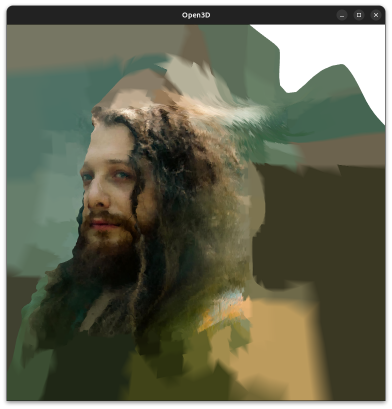
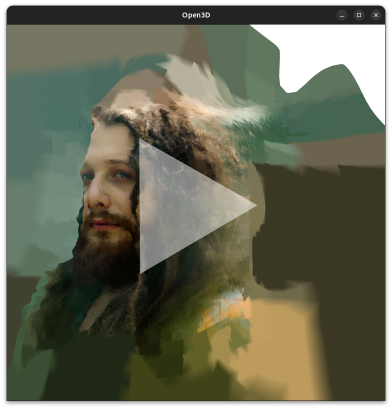
update docs

Changed region(s): [[0.3367, 0.3227, 0.6735, 0.6748]]

diff --git a/docs/source/conf.py b/docs/source/conf.py
@@ -6,8 +6,8 @@ project = 'voxelmap'
 copyright = '2023, Andrew Garcia'
 author = 'Andrew Garcia, Ph.D.'
 
-release = '4.2'
-version = '4.2.0'
+release = '4.3'
+version = '4.3.0'
 
 # -- General configuration
 

diff --git a/docs/source/usage.rst b/docs/source/usage.rst
@@ -49,124 +49,101 @@ The dictionary's structure and call method are shown below:
 
 .. _voxeldraw_array:
 
-Draw voxels from an integer array
+Draw voxels from integer arrays
 -------------------------------------
 
-The voxel color and transparencies may be added or modified to the 
-``hashblocks`` map with the ``hashblocks_add`` method.
+We present the creation of two models using arrays A and B, with the first code block dedicated to the generation of the first model (array A) containing thorough comments for better understanding of the voxelmap functions.
 
 .. code-block:: python
 
-   import voxelmap as vxm
-   import numpy as np
+  '''Array A'''
 
-   #make a 3x3x3 integer array with random values between 0 and 9
-   array = np.random.randint(0, 10, (3, 3, 3))
-   print(array)
+  #make a 10x10x10 integer array with values between 0 and 3 with sampling probabilities "p"
+  freqs = [300,20,40,20]    
+  A = np.random.choice([0,1,2,3],p=freqs/np.sum(freqs),size=(10, 10, 10))
 
-   #incorporate array to Model structure
-   model = vxm.Model(array)
+  #incorporate array to Model structure
+  model = vxm.Model(A)
 
-   #add voxel colors and alpha-transparency for integer values 0 - 9 (needed for `custom` coloring)
-   colors = ['#ffffff', 'black', '#ffffff', 'k',
-            'yellow', '#000000', 'white', 'k', '#c745f8']
-   for i in range(9):
-      model.hashblocks_add(i+1, colors[i])
+  #add voxel colors and alpha-transparency for integer values 0 - 9 (needed for `custom` coloring)
+  colors = ['#ff000ff', 'yellow', 'lime']
 
-   #draw array as a voxel model with `custom` coloring scheme
-   model.draw('custom', background_color='#ffffff')
-   
->>> [Out]
-[[[3 8 5]
-  [0 2 6]
-  [2 2 7]]
- [[8 3 6]
-  [7 2 0]
-  [2 2 1]]
- [[9 2 4]
-  [8 5 7]
-  [8 9 8]]]
+  alpha_yellow=0.4    # define alpha transparency for yellow colored voxels
+
+  #assign colors and alpha to integers
+  k=1
+  for i in colors:
+      model.hashblocks[k] = [i,1] if i != 'yellow' else [i,alpha_yellow]
+      k+=1
+
+  model.draw(coloring='custom',len_voxel=0.9, background_color='#ffffff')
+
+  '''Array B'''
+
+  B = np.random.randint(1,30,(7,7,7))
+  vxm.Model(B).draw(coloring='cmap: cool, alpha:1.0',geometry='particles',len_voxel=1,background_color='w')
 
 
 .. image:: ../img/solid_voxels.png
-  :width: 200
+  :width: 300
   :alt: Alternative text
 
-With particles geometry and user-defined ``alpha`` transparencies
-...........................................................................
-The new version of voxelmap now has a ``geometry`` kwarg for the ``Model.draw()`` method where the voxel geometry can be chosen between `voxels` and `particles` form. Below we change it to `particles` to represent the voxels above as spherical objects. In addition, we declare different transparencies of the different voxel-item types:
-
-.. code-block:: python
-
-   alphas = [0.8,1,0.5,1,0.75,0.5,1.0,0.8,0.6]
-   for i in range(9):
-   model.hashblocks_add(i+1,colors[i],alphas[i])
-   model.draw('custom', geometry='particles', background_color='#ffffff')
-
-.. image:: ../img/alpha_voxels.png
-  :width: 200
+.. image:: ../img/solid_voxels_B.png
+  :width: 300
   :alt: Alternative text
+
+
+It's worth noting the versatility of voxelmap, allowing the creation of 3D models using just one line of code, as demonstrated with the generation of array B.
+
 
 
 Draw voxels from coordinate arrays 
 -------------------------------------
 
-**Voxelmap** may also draw a voxel model from an array which defines the coordinates for each of the voxels to be drawn in x y and z space. 
+Voxelmap has the capability to create a voxel model using an array that defines the coordinates of each voxel in x, y, and z space. The variable "data.xyz" takes a third-order array, where the rows represent the number of voxels and the columns contain the 3 coordinates for each axis.
 
-The internal variable ``data.xyz`` will thus take a third-order array where the rows are the number of voxels and the columns are the 3 coordinates for the x,y,z axis. Another internal input, ``data.rgb``,
-can be used to define the colors for each of the voxels in the ``data.xyz`` object in ``'xxxxxx'`` hex format (i.e. ``'ffffff'`` for white).
+Additionally, the "data.rgb" input can be used to set the color of each voxel in the "data.xyz" object using the hex format "xxxxxx" (for example, "ffffff" for white).
 
-The algorithm will also work for negative coordinates, as it is shown in the example below. 
+The algorithm works with negative coordinates as well, as demonstrated in the example below. This example showcases two cases, where the second case places the spheres farther apart by reducing the characteristic length scale of the particles (i.e., the radius) using the "len_voxel" keyword argument.
 
 .. code-block:: python
 
-   import voxelmap as vxm
-   import numpy as np
+  cubes = vxm.Model()
+  num_voxels = 30
+  cubes.XYZ = np.random.randint(-1,1,(num_voxels,3))+np.random.random((num_voxels,3))          # random x,y,z locs for 10 voxels
+  cubes.RGB = [ hex(np.random.randint(0.5e7,1.5e7))[2:] for i in range(num_voxels) ]   # define random colors for the 10 voxels
+  cubes.sparsity = 10
+                                                    # spaces out coordinates
+  cubes.load(coords=True)
+  cubes.hashblocks
 
-   cubes = vxm.Model()          
-   num_voxels = 30
-   cubes.XYZ = np.random.randint(-1,1,(num_voxels,3))+np.random.random((num_voxels,3))          # random x,y,z locs for 10 voxels
-   cubes.RGB = [ hex(np.random.randint(0.5e7,1.5e7))[2:] for i in range(num_voxels) ]   # define random colors for the 10 voxels
-   cubes.sparsity = 5
-                                                      # spaces out coordinates 
-   cubes.load(coords=True)
-   cubes.hashblocks 
+  print(cubes.hashblocks)
 
-   for i in cubes.hashblocks:
-      cubes.hashblocks[i][1] = 0.30     # update all voxel alphas (transparency) to 0.3
+  # print(cubes.XYZ)                               # print the xyz coordinate data
+  cubes.draw(coloring='custom',geometry='particles',len_voxel=1, background_color='#ffffff',window_size=[416, 416]) 
 
-   # print(cubes.XYZ)                               # print the xyz coordinate data
-   cubes.draw('custom',geometry='particles', background_color='#ffffff',window_size=[416, 416])                            # draw the model from that data
+  # increase spacing by setting the `len_voxel` characteristic side-length to a lower number. 
+  cubes.draw(coloring='custom',geometry='particles',len_voxel=0.5, background_color='#ffffff',window_size=[416, 416]) 
 
 
 
 >>> [Out]
-Color list built from file!
-Model().hashblocks =
- {1: ['#4db692', 1], 2: ['#564bfb', 1], 3: ['#5915c1', 1], 4: ['#6283df', 1], 5: ['#6e5722', 1], 6: ['#6eebc3', 1], 7: ['#70cffa', 1], 8: ['#787ea7', 1], 9: ['#813c5b', 1], 10: ['#8906d7', 1], 11: ['#8a871d', 1], 12: ['#8ba24f', 1], 13: ['#930979', 1], 14: ['#932fde', 1], 15: ['#964c67', 1], 16: ['#9bafea', 1], 17: ['#9c248b', 1], 18: ['#9e5fff', 1], 19: ['#a2183b', 1], 20: ['#a248a6', 1], 21: ['#a63265', 1], 22: ['#a6c6a1', 1], 23: ['#aa381b', 1], 24: ['#ae9c6a', 1], 25: ['#b58c2c', 1], 26: ['#c114a1', 1], 27: ['#c618df', 1], 28: ['#d15d6e', 1], 29: ['#da6f7d', 1], 30: ['#e36ff6', 1]}
+Voxelmap draw. Using custom colors:
+self.hashblocks =
+ {1: ['#4d3206', 1], 2: ['#4f29cc', 1], 3: ['#52c64a', 1], 4: ['#5c8c76', 1], 5: ['#617fc0', 1], 6: ['#6622fa', 1], 7: ['#668b58', 1], 8: ['#6cb872', 1], 9: ['#701eda', 1], 10: ['#76aa8b', 1], 11: ['#783ec3', 1], 12: ['#7b2af8', 1], 13: ['#80e30b', 1], 14: ['#8105f8', 1], 15: ['#842c4c', 1], 16: ['#89c2d5', 1], 17: ['#934959', 1], 18: ['#9a539c', 1], 19: ['#9f3fae', 1], 20: ['#a5b909', 1], 21: ['#a9f373', 1], 22: ['#b818a6', 1], 23: ['#bcf032', 1], 24: ['#bd0374', 1], 25: ['#bdd493', 1], 26: ['#c20eff', 1], 27: ['#c9c6fe', 1], 28: ['#c9ea55', 1], 29: ['#cc8e6f', 1], 30: ['#d553d4', 1]}
 
 .. image:: ../img/coords.png
-  :width: 200
+  :width: 300
   :alt: Alternative text
 
-Increase sparsity
-....................
-
-
-The `sparsity` variable will extend the distance from all voxels at the expense of increased memory. 
-
-.. code-block:: python
-
-   cubes.sparsity = 12                                                      # spaces out coordinates 
-   cubes.load(coords=True)
-   for i in cubes.hashblocks:
-      cubes.hashblocks[i][1] = 0.30     # update all voxel alphas (transparency) to 0.3
-
-   cubes.draw('custom', geometry='particles', background_color='#ffffff',window_size=[1000, 1000])                            # draw the model from that data
+>>> [Out]
+Voxelmap draw. Using custom colors:
+self.hashblocks =
+ {1: ['#4d3206', 1], 2: ['#4f29cc', 1], 3: ['#52c64a', 1], 4: ['#5c8c76', 1], 5: ['#617fc0', 1], 6: ['#6622fa', 1], 7: ['#668b58', 1], 8: ['#6cb872', 1], 9: ['#701eda', 1], 10: ['#76aa8b', 1], 11: ['#783ec3', 1], 12: ['#7b2af8', 1], 13: ['#80e30b', 1], 14: ['#8105f8', 1], 15: ['#842c4c', 1], 16: ['#89c2d5', 1], 17: ['#934959', 1], 18: ['#9a539c', 1], 19: ['#9f3fae', 1], 20: ['#a5b909', 1], 21: ['#a9f373', 1], 22: ['#b818a6', 1], 23: ['#bcf032', 1], 24: ['#bd0374', 1], 25: ['#bdd493', 1], 26: ['#c20eff', 1], 27: ['#c9c6fe', 1], 28: ['#c9ea55', 1], 29: ['#cc8e6f', 1], 30: ['#d553d4', 1]}
 
 
 .. image:: ../img/coords_sparse.png
-  :width: 2000
+  :width: 500
   :alt: Alternative text
 
 

diff --git a/docs/source/examples/meshrec.rst b/docs/source/examples/meshrec.rst
@@ -59,24 +59,16 @@ With voxelmap, we are committed to continually improving our project with the la
 As part of our ongoing development, we are planning to introduce more advanced methods for 3-D reconstruction using artificial intelligence in a future release, version 5.0.
 
 
-.. |o3dgal1| image:: ../../img/o3d_galactic1.png
-  :width: 340
-  :alt: Alternative text
-
 .. |o3dgal2| image:: ../../img/o3d_galactic2.png
   :width: 340
   :alt: Alternative text
+  :target: https://www.youtube.com/watch?v=UlZmtAqZEmQ
 
 
-|o3dgal1| |o3dgal2|
-
+|o3dgal2|
 
 
 These new method(s) will provide higher quality 3-D reconstruction, and enable users to go from image to 3-D model with just one line of code. Our aim is to democratize the 3-D modeling process and make it more accessible to everyone.
 
-
-.. raw:: html
-
-    <iframe width="560" height="315" src="https://www.youtube.com/watch?v=UlZmtAqZEmQ" frameborder="0" allowfullscreen></iframe>
 
 
